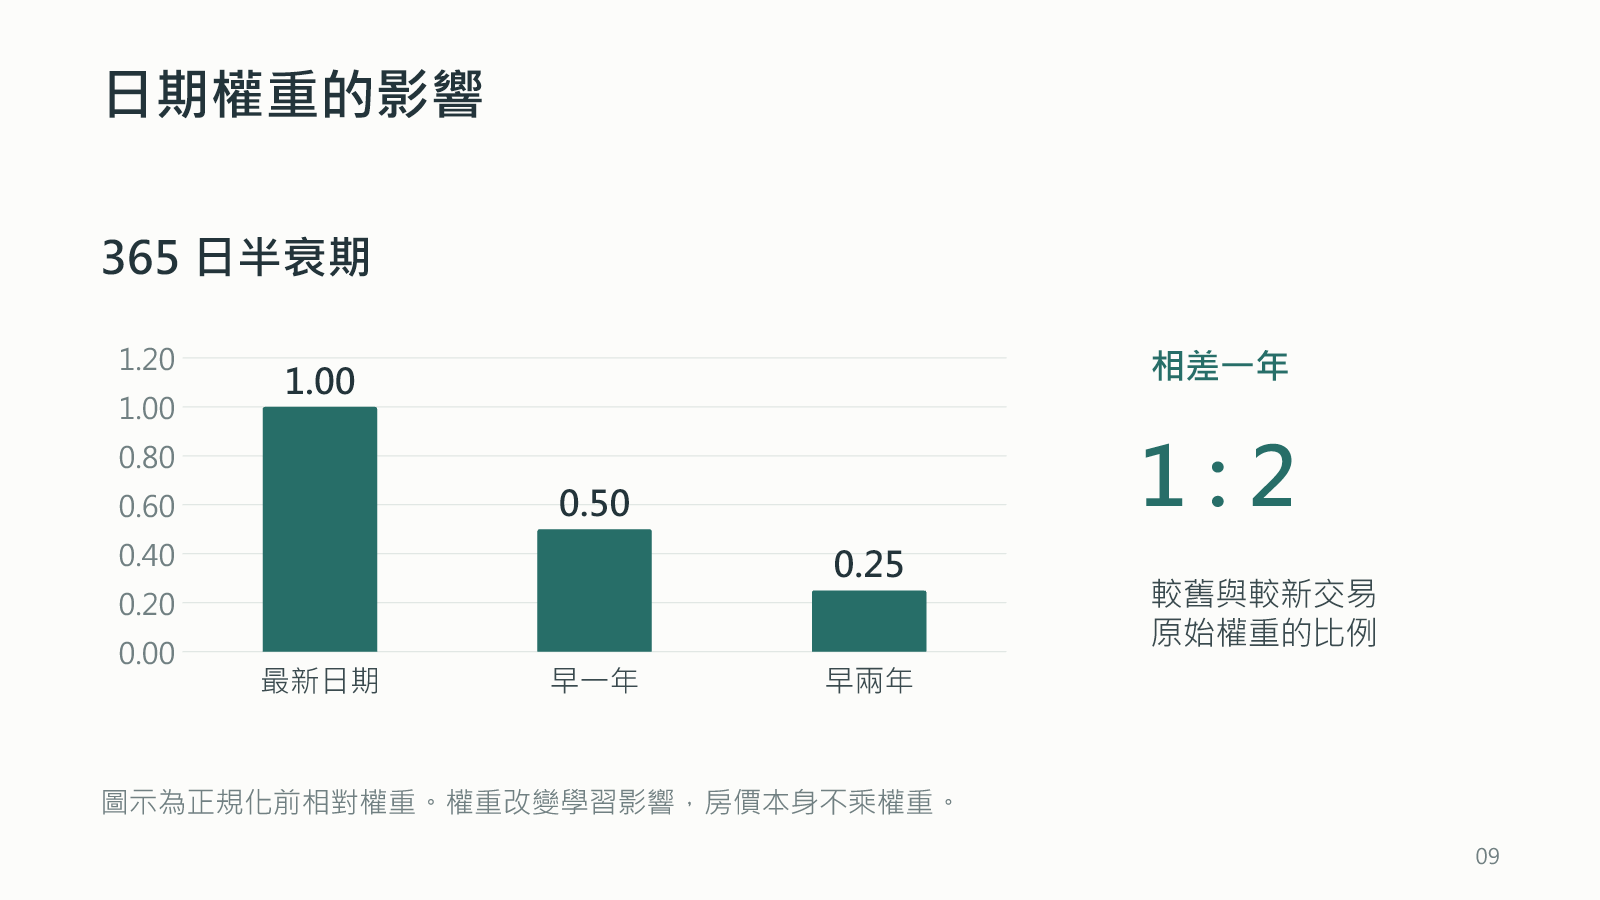
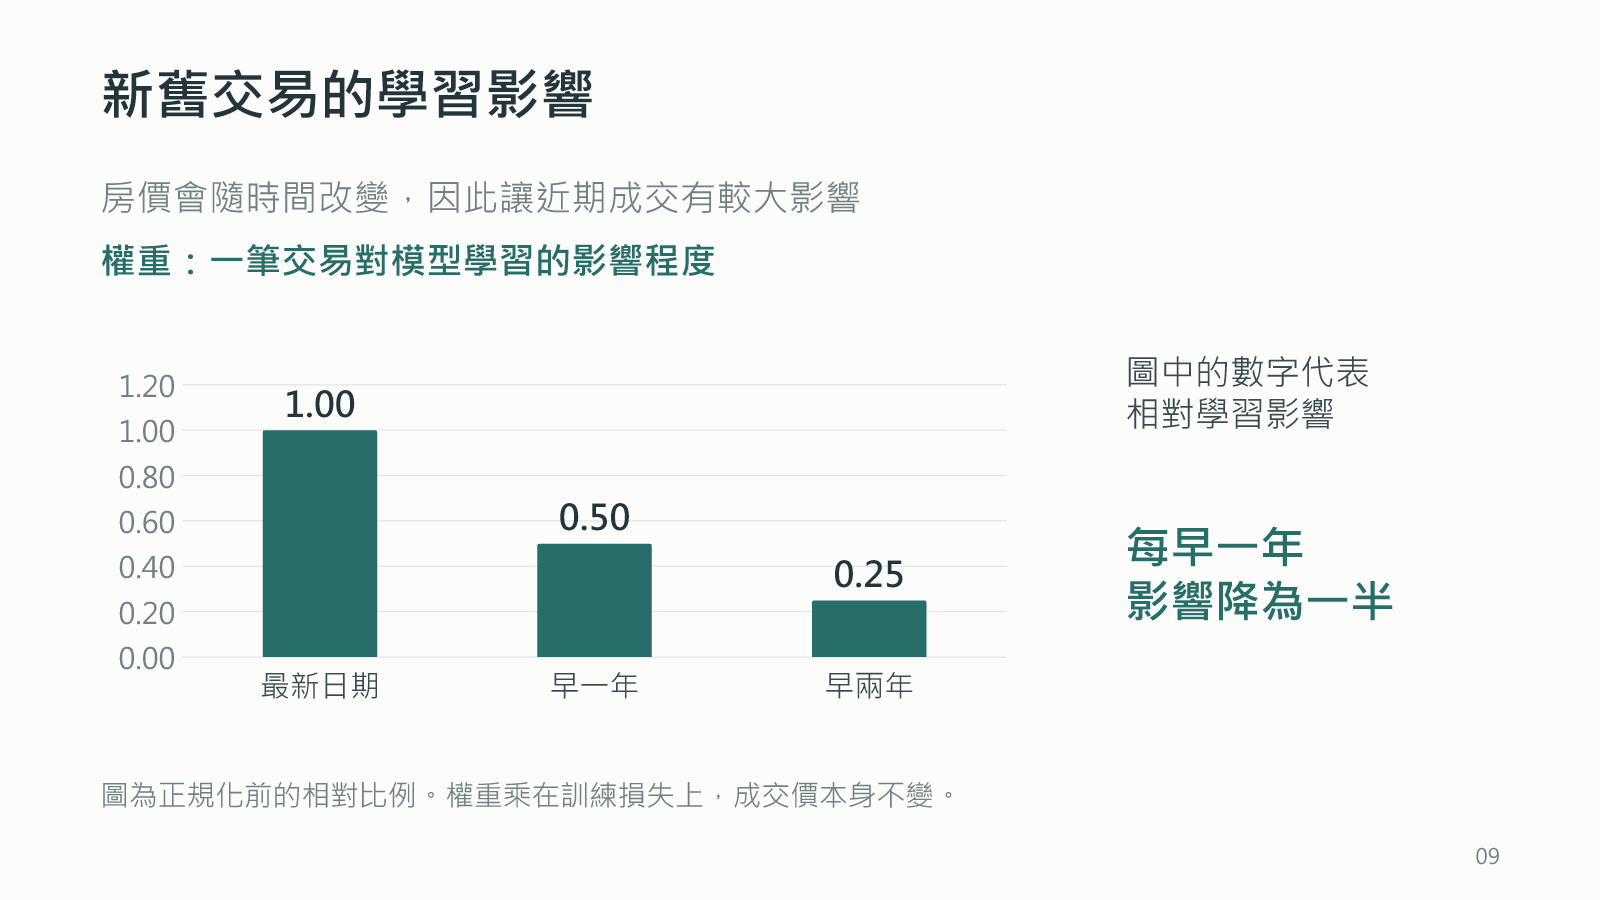
Explain date weights and reference prices with a concrete example

diff --git a/teaching/final_presentation/完整口語講稿.md b/teaching/final_presentation/完整口語講稿.md
@@ -2,7 +2,7 @@
 
 姓名：廖子頤　學號：315581048
 
-16頁，全為主講，無附錄。主講script共4,268純漢字（不含標題、數字、英文、標點、補充理由與問答）；275字／分約15:31，250–300字／分約14.23–17.07分鐘。尚未本人排練計時，翻頁與停頓可能增加時間。
+16頁，全為主講，無附錄。主講script共4,298純漢字（不含標題、數字、英文、標點、補充理由與問答）；275字／分約15:38，250–300字／分約14.33–17.19分鐘。尚未本人排練計時，翻頁與停頓可能增加時間。
 
 ## 01　台灣房屋銷售價格預測挑戰賽
 
@@ -161,45 +161,47 @@
 - src/round12_log_geo.py
 - src/round79_recency_unit.py
 
-## 09　日期權重的影響
+## 09　新舊交易的學習影響
 
-特定模型也加入日期權重。距離當期最新日期越遠，相對權重越小，因為近期成交可能更接近待預測期間的市場。
+上一頁說明面積如何影響總價誤差，接著我處理交易日期。房價會隨時間改變，所以我讓較近期成交對學習有較大影響。這個影響程度叫權重，會乘在每筆交易的訓練損失上。
 
-這裡使用三百六十五天半衰期。圖中最新日期的相對權重是一，早一年是零點五，早兩年是零點二五。這是正規化前的比例，實際將有效日期權重除以它們的平均值，無效日期給一。
+圖中是正規化前的相對比例。當期最新的有效日期設為一，早三百六十五天是零點五，早七百三十天是零點二五。每早一年，原始影響降為一半，這個設定叫三百六十五天半衰期。
 
-權重乘在每筆訓練誤差上，改變它對參數更新的影響，不會把一千萬元的真實價格乘成五百萬元。單價樹模型還搭配面積權重，參考單價網路也用日期權重，其他模型保留各自設定。舊資料仍參與學習，只是影響程度不同。
+權重調整的是學習影響，成交價仍維持原值，舊交易也繼續參與。單價樹模型還搭配面積權重，參考單價網路使用日期加權損失，其他模型保留各自設定。下一頁建立參考單價時，也會讓近期成交有較大的影響。
 
 ### 補充理由
 
-說清楚權重作用於訓練誤差，不是修改房價，並呈現半衰期示意與實際正規化差別。
+先接續上一頁的面積誤差，再交代日期加權的動機，定義權重後才讀圖。一年是365天，1、0.5、0.25是正規化前原始相對比例。實際有效日期權重除以有效參考列權重平均值，無效日期給1；相對於每次reference資料中的最新有效日期計算，OOF補集各自建立anchor。日期權重在NN訓練時乘loss，在下一頁先驗建立時用於加權中位數，屬兩個不同作用。單價樹另有面積權重，不宣稱六模型都共用同一權重，也不保證加權一定改善。
 
 ### 資料依據
 
-- reports/v25_method_and_code_20261010.md
-- src/round60_recency_price_prior.py
 - src/round79_recency_unit.py
-
-## 10　參考單價與分組先驗
-
-參考單價網路先建立一張參考表。從當期訓練成交依地區、交易類型和建物類型整理單價，資料不足就逐層放寬分組，最後回到整體參考。網路再從房屋條件學習調整倍率，用參考單價乘面積和倍率，產生總價。
-
-為避免自己的答案帶回輸入，我按建案分成五組，每組只使用其他四組的價格建立參考。建案用來分組，不是參考表的查詢鍵。這叫分組折外處理，隔開同建案的答案。當某組作為被預測的交易時，該組答案不參與建立自己的參考。
-
-新交易使用當期全部訓練資料建立參考。建案分組不等於時間切分，仍要遵守時間邊界。
-
-這支網路使用日期加權平滑絕對損失，十萬元是轉折，讓小誤差附近的更新較平順。固定訓練三十輪，保存最後一輪，不用驗證最低點挑輪數。接著看另行保存的訓練診斷。
-
-### 補充理由
-
-用答案混入參考基準的具體風險解釋OOF，明確保留按建案而非時間分組的限制。
-
-### 資料依據
-
-- reports/v25_method_and_code_20261010.md
 - src/round60_recency_price_prior.py
 - src/round63_recency_weighted_prior_train.py
 - src/round107_weighted_smooth_train.py
-- outputs/round107/final/model/training.json
+- reports/v25_method_and_code_20261010.md
+
+## 10　相似交易提供參考單價
+
+接著，我替房子找一個估價起點。用當期訓練交易，依城市、行政區、交易類型和建物類型分類，整理參考單價，稱為分組先驗。採用中位單價，近期交易的影響較大；同類不足三十筆就逐層放寬條件。
+
+畫面是假設例子。參考單價每平方公尺二十萬元，面積五十平方公尺，參考總價是一千萬元。神經網路再依房屋條件學調整倍率。假設倍率是一點一，預測總價就是一千一百萬元。倍率由模型學習，不是我逐筆指定。
+
+右下方是防止答案回流的另一個動作。建立訓練用參考價時，依建案分成五組，同建案留在同組。每組只用其他四組建立參考價，排除自己所在整組的答案。這是按建案隔開，沒有按年份切成五段。
+
+預測新的交易時，沿用當期完整訓練資料建立的參考表，不使用新交易的真價。模型先有參考價，再學如何調整，最後換成總價。
+
+### 補充理由
+
+畫面先展示參考單價及具體金額，再分開說明查表分類與訓練時隔開答案，避免把兩種分組混為一談。先驗精確查詢依序為城市＋行政區＋交易類型＋建物類型，城市＋交易類型＋建物類型，交易類型＋建物類型，交易類型，最後全域。前四層至少30筆原始reference交易；採365天日期加權中位單價，全域不受30筆門檻限制。建案不是先驗查表key，是OOF隔離分組；同組與同折的全部標籤均排除，訓練每列先驗可用同一fit範圍內較晚交易，故不是時間OOF。各時間切點的query標籤不參與先驗；query查完整當期fit。正倍率由Softplus直接輸出，並非log倍率再exp；總價＝參考單價×有效面積×倍率。NN固定30輪，日期加權SmoothL1轉折為10萬元，參考價加權中位數與NN損失加權是不同步驟。例子20萬元/m²、50m²、1.1及1100萬元皆為教學假設，未當成實際評分或真價。
+
+### 資料依據
+
+- src/round52_price_prior.py
+- src/round60_recency_price_prior.py
+- src/round47_nn_train.py
+- src/round107_weighted_smooth_train.py
+- reports/v25_method_and_code_20261010.md
 
 ## 11　用後一年交易檢查訓練過程
 

diff --git a/teaching/final_presentation/README.md b/teaching/final_presentation/README.md
@@ -1,10 +1,10 @@
 # 台灣房屋銷售價格預測挑戰賽｜製作流程簡報與講稿
 
 - [可編輯簡報](台灣房屋銷售價格預測挑戰賽_上台簡報.pptx)：16頁，全為主講、無附錄。
-- [完整口語講稿](完整口語講稿.md)：4,268純漢字，275字／分估15.52分鐘，尚未本人計時。
-- [第7頁預覽](previews/slide-07.png)、[封面預覽](previews/slide-01.png)。
+- [完整口語講稿](完整口語講稿.md)：4,298純漢字，275字／分估15.63分鐘，尚未本人計時。
+- [第9頁預覽](previews/slide-09.png)、[第10頁預覽](previews/slide-10.png)、[封面預覽](previews/slide-01.png)。
 - [文件重建來源](source/README.md)、[原始60點曲線](../../evidence/outputs/v25_training_curve_20261010/curve.json)。
 
-第7頁補清各模型先預測什麼：總價、單價、對數總價或相對參考價的倍率。單價樹模型以單價為答案；面積網路雖輸出單價，仍乘面積後比較總價。各模型依原生學習目標計算損失，統一換回總價元後進行融合與最終總價MAE評分。已還原總價不再重複乘面積。只改第7頁與備忘稿，其餘15頁畫面／備忘稿及三個圖表／Excel原bytes保持；不刪頁、不改排序。封面刪除、第二頁房屋插圖及四窗口數據保持。
+第9頁先說明交易時間會影響房價，再以1、0.5、0.25的原始相對比例解釋樣本影響與一年減半；半衰期細節留在講稿。第10頁用類似交易的加權中位數建立參考單價，示範20萬元／平方公尺×50平方公尺×1.1＝1,100萬元，並區分類似交易的查表分群與建案五組隔離答案。只改第9、10頁與備忘稿，其餘14頁畫面／備忘稿及三個圖表／Excel原bytes保持；日期圖只調整圖框位置，不刪頁、不改排序。畫面使用白話說明，fit／query／OOF等術語留在講稿來源。封面刪除、第二頁房屋插圖及四窗口數據保持。
 
 第11頁仍為另行固定30輪的單一NN診斷，不是完整融合或原提交軌跡，未依最低點挑輪。Private未知，歷史不利證據及乾淨環境全六模型重訓／推論未驗證的限制保持。本次同bundled runtime完整source重建後16頁像素與交付檔一致；未驗證原生PowerPoint編輯或新電腦安裝。Word、模型與提交CSV不變。

diff --git a/HANDOFF.md b/HANDOFF.md
@@ -1,6 +1,6 @@
 # 最終交付交接
 
-入口見[README](README.md)。正式報告原12頁保持。製作流程簡報16頁，全為主講、無附錄；講稿4,268純漢字，275字／分估15.52分鐘，尚未本人計時。第7頁補清各模型先預測什麼：總價、單價、對數總價或相對參考價的倍率。單價樹模型以單價為答案；面積網路雖輸出單價，仍乘面積後比較總價。各模型依原生學習目標計算損失，統一換回總價元後進行融合與最終總價MAE評分。已還原總價不再重複乘面積。只改第7頁／備忘稿及必要文件，其餘15頁與notes、三個圖表及Excel原bytes保持。封面刪除、第二頁房屋插圖、四窗口數據及指定底句刪除保持。現行入口teaching/final_presentation，舊檔本機與Git歷史保留。
+入口見[README](README.md)。正式報告原12頁保持。製作流程簡報16頁，全為主講、無附錄；講稿4,298純漢字，275字／分估15.63分鐘，尚未本人計時。第9頁先說明交易時間會影響房價，再以1、0.5、0.25的原始相對比例解釋樣本影響與一年減半；半衰期細節留在講稿。第10頁用類似交易的加權中位數建立參考單價，示範20萬元／平方公尺×50平方公尺×1.1＝1,100萬元，並區分類似交易的查表分群與建案五組隔離答案。只改第9、10頁／備忘稿及必要文件，其餘14頁與notes、三個圖表及Excel原bytes保持，日期圖只移圖框位置。封面刪除、第二頁房屋插圖、第7頁價格目標、四窗口數據及指定底句刪除保持。現行入口teaching/final_presentation，舊檔本機與Git歷史保留。
 
 Public 1,995,836.2136元為使用者回報，Private未知。第11頁仍為另行固定30輪的單一NN診斷，不是完整融合或原提交軌跡，未依最低點挑輪。Private未知，歷史不利證據及乾淨環境全六模型重訓／推論未驗證的限制保持。最終只新訓練參考單價NN，其餘五個沿用保存預測的實際範圍未改。
 

diff --git a/teaching/final_presentation/source/README.md b/teaching/final_presentation/source/README.md
@@ -1,6 +1,6 @@
 # 簡報重建來源
 
-本資料夾對應16頁製作流程簡報，全部為主講、無附錄。完整口語講稿 4,268 純漢字，275字／分估約15:31，250–300字／分估14.23至17.07分鐘，未本人計時。
+本資料夾對應16頁製作流程簡報，全部為主講、無附錄。完整口語講稿 4,298 純漢字，275字／分估約15:38，250–300字／分估14.33至17.19分鐘，未本人計時。
 
 以 `build_presentation.mjs` 讀取同目錄 `content.json`、`training_curve.json` 及 `assets/house_illustration.png`，產生可編輯候選；再以 `finalize_presentation.mjs` 完成套件檢查與逐頁渲染。需可用的 Node.js、@oai/artifact-tool、Python 及 Presentations 技能工具，環境路徑可由檔內環境變數調整。此來源重建簡報，不會訓練房價模型。
 
@@ -13,4 +13,4 @@ node ./finalize_presentation.mjs C:/path/to/new-build r1
 
 實際完成的重建與視覺核對以本次交付收據為準。不同Office版本可能略有重排，未宣稱原生PowerPoint或全新電腦安裝已測試。模型／CSV未改，Private未知。
 
-本次僅重寫第7頁的價格目標對照與訓練步驟、備忘稿及講稿。原生表頁為3、4、5、6、7、12、15，共7張；3圖表及原始60點曲線保持。講稿4,268純漢字，275字／分估15.52分鐘，尚未本人計時。單價模型乘回有效面積；直接總價與已還原總價不得重複乘面積。各模型原生loss不同，融合與最終評分統一總價元。
+本次僅重寫第9、10頁與備忘稿，先說日期加權的原因與影響，再以相似交易參考價與總價算例說明。保留第7頁價格目標對照及其餘14頁；7張原生表、3原生圖和原60點曲線保持。查表分類與建案分組隔開答案是不同步驟，分組OOF不等同時間OOF。
